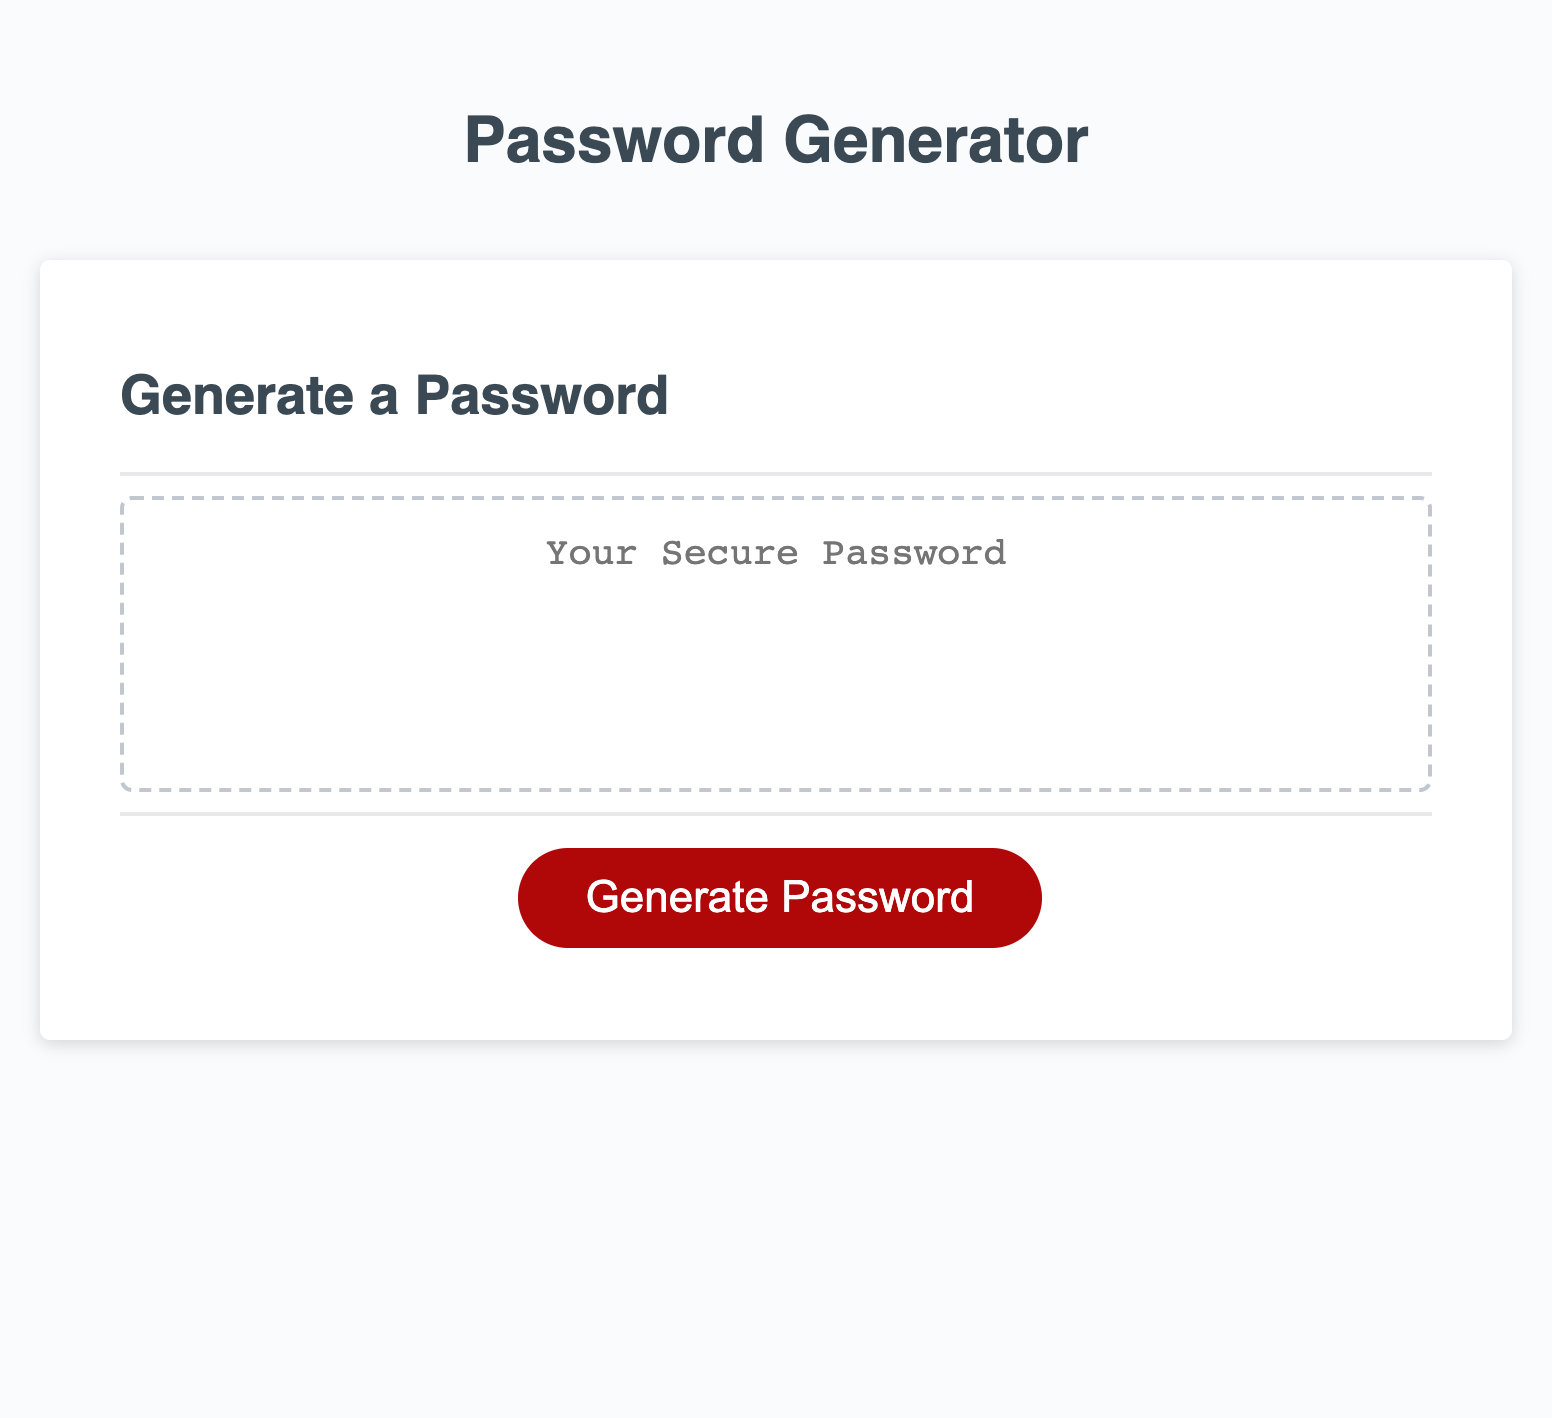
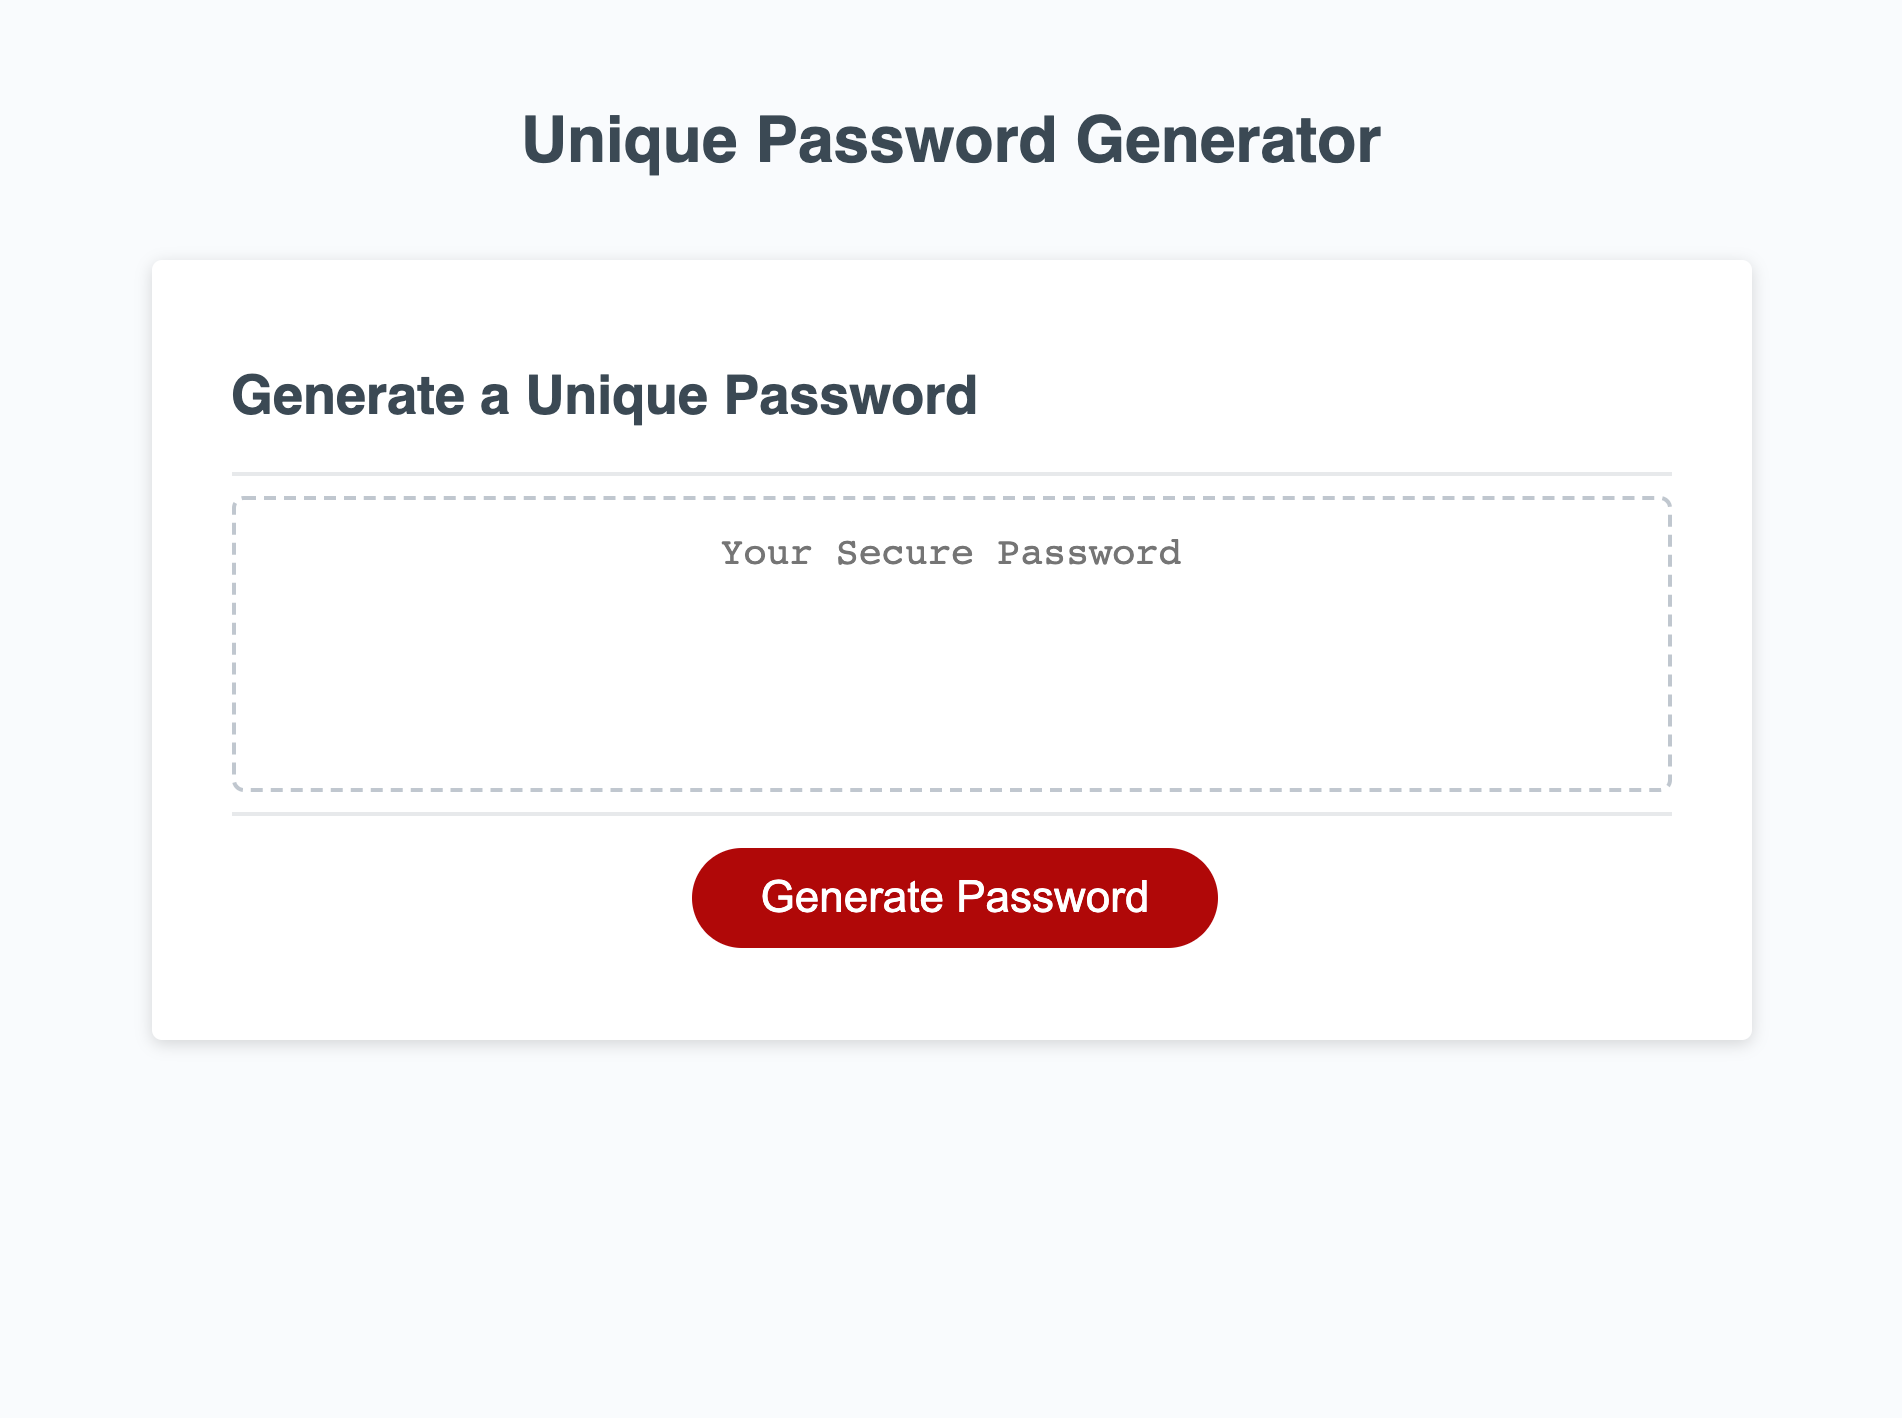
Final changes before assignment submission: - In HTML, changed title, header.h1 to "Unique Password Generator" and div.h2 to "Generate a Unique Password" - In ReadMe, updated the image to have the changes made to HTML - In script.js, changed initial window prompt text.

diff --git a/index.html b/index.html
@@ -4,17 +4,17 @@
     <meta charset="UTF-8" />
     <meta name="viewport" content="width=device-width, initial-scale=1.0" />
     <meta http-equiv="X-UA-Compatible" content="ie=edge" />
-    <title>Password Generator</title>
+    <title>Unique Password Generator</title>
     <link rel="stylesheet" href="Develop/style.css" />
   </head>
   <body>
     <div class="wrapper">
       <header>
-        <h1>Password Generator</h1>
+        <h1>Unique Password Generator</h1>
       </header>
       <div class="card">
         <div class="card-header">
-          <h2>Generate a Password</h2>
+          <h2>Generate a Unique Password</h2>
         </div>
         <div class="card-body">
           <textarea

diff --git a/Develop/script.js b/Develop/script.js
@@ -16,7 +16,7 @@ var password_length;
 function passwordLength() {
 
  // User chooses password character length from between 8 to 128 characters.
-  password_length = window.prompt ("Choose how many characters would you like this password to be? Please choose from a minimum of 8 to maximum of 128 characters.");
+  password_length = window.prompt ("Choose the desired length of your password? Please choose from a minimum of 8 to maximum of 128 characters in length.");
     
    if (password_length >= 8 && password_length <=128) {
     confirmCharacters();
